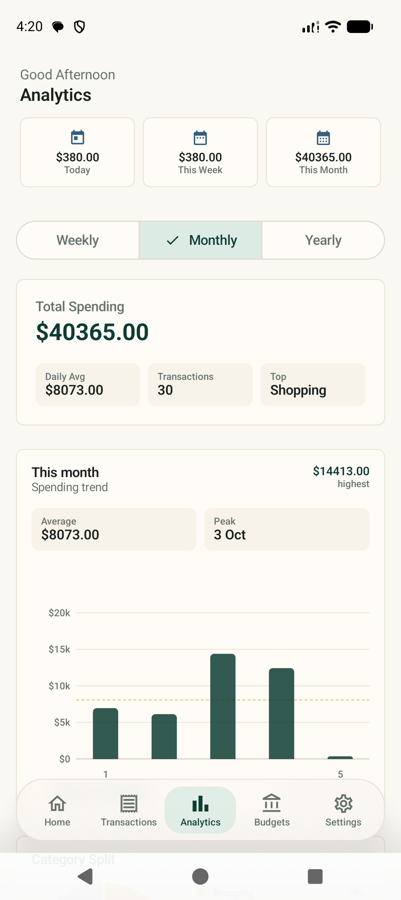
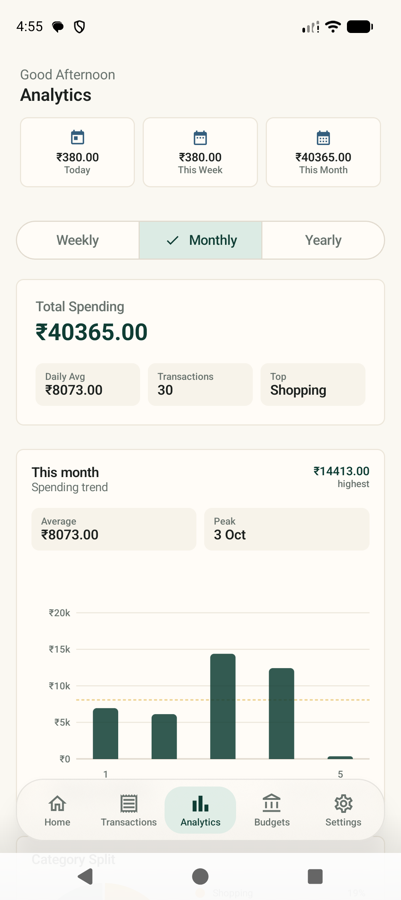
Show screenshots in rupees instead of dollars

diff --git a/web/README.md b/web/README.md
@@ -126,6 +126,12 @@ gesture navigation on, a tap near the bottom of the screen is read as a swipe
 towards home, which makes the app's own navigation bar untappable and silently
 produces eight identical screenshots.
 
+`pnpm capture` also sets the app's base currency to INR before it starts. The
+app falls back to the device locale when no base currency has been chosen, and
+an emulator is normally en-US, so a fresh install would otherwise render every
+figure in dollars. The seeded transactions are all denominated in INR, so a
+dollar total is also a conversion nothing on the page can account for.
+
 ## Local development
 
 ```bash
